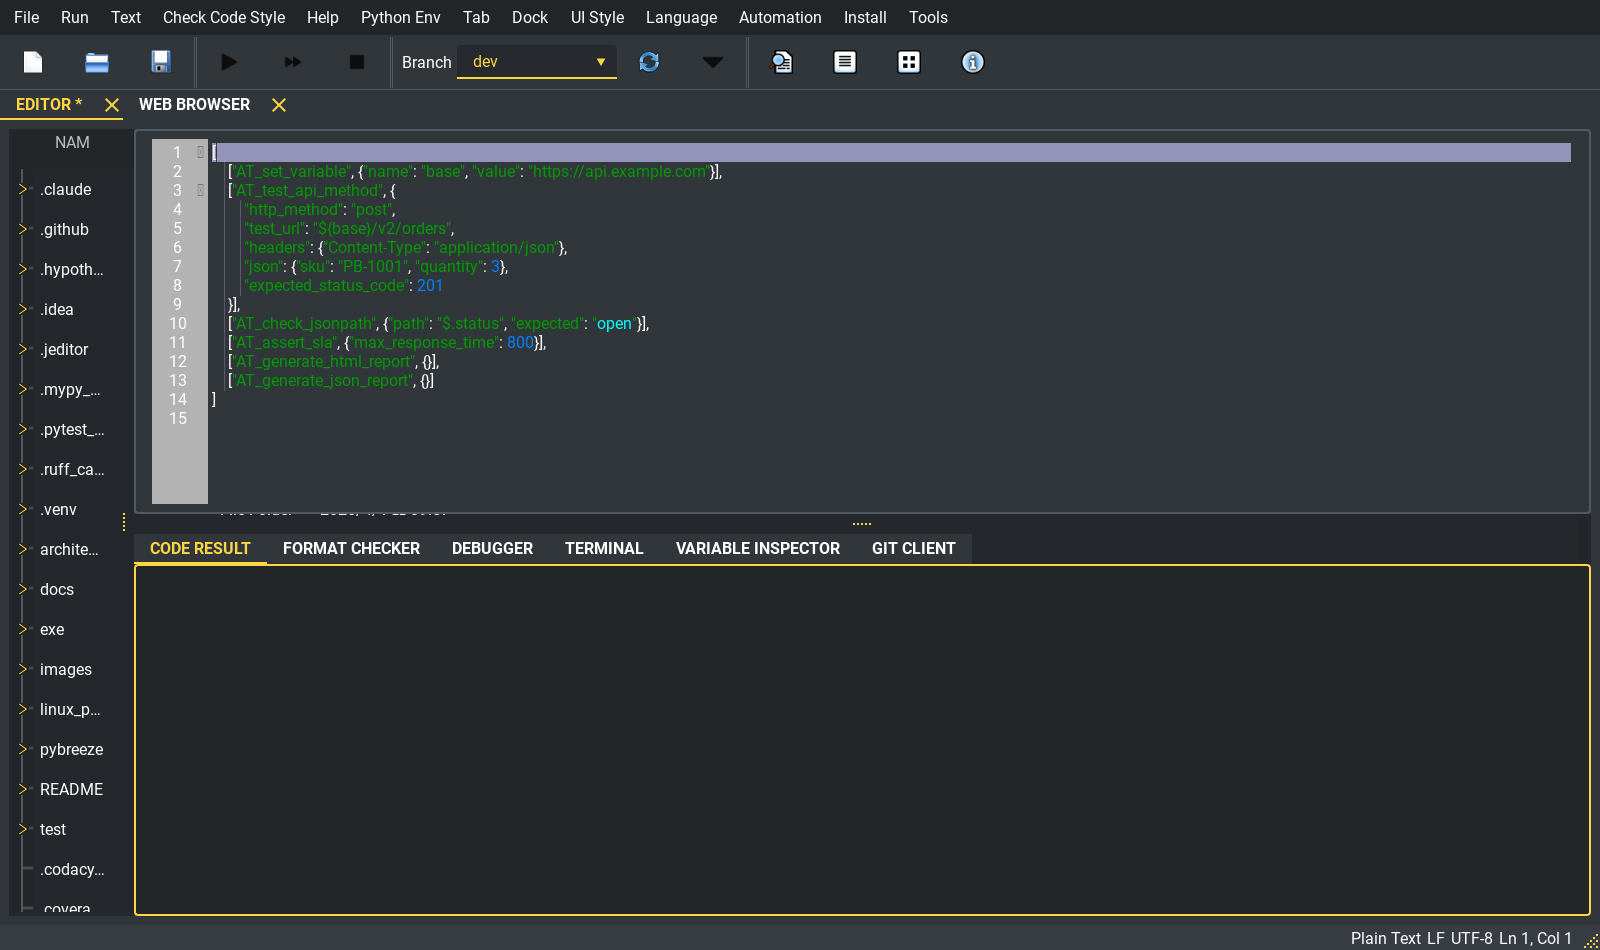
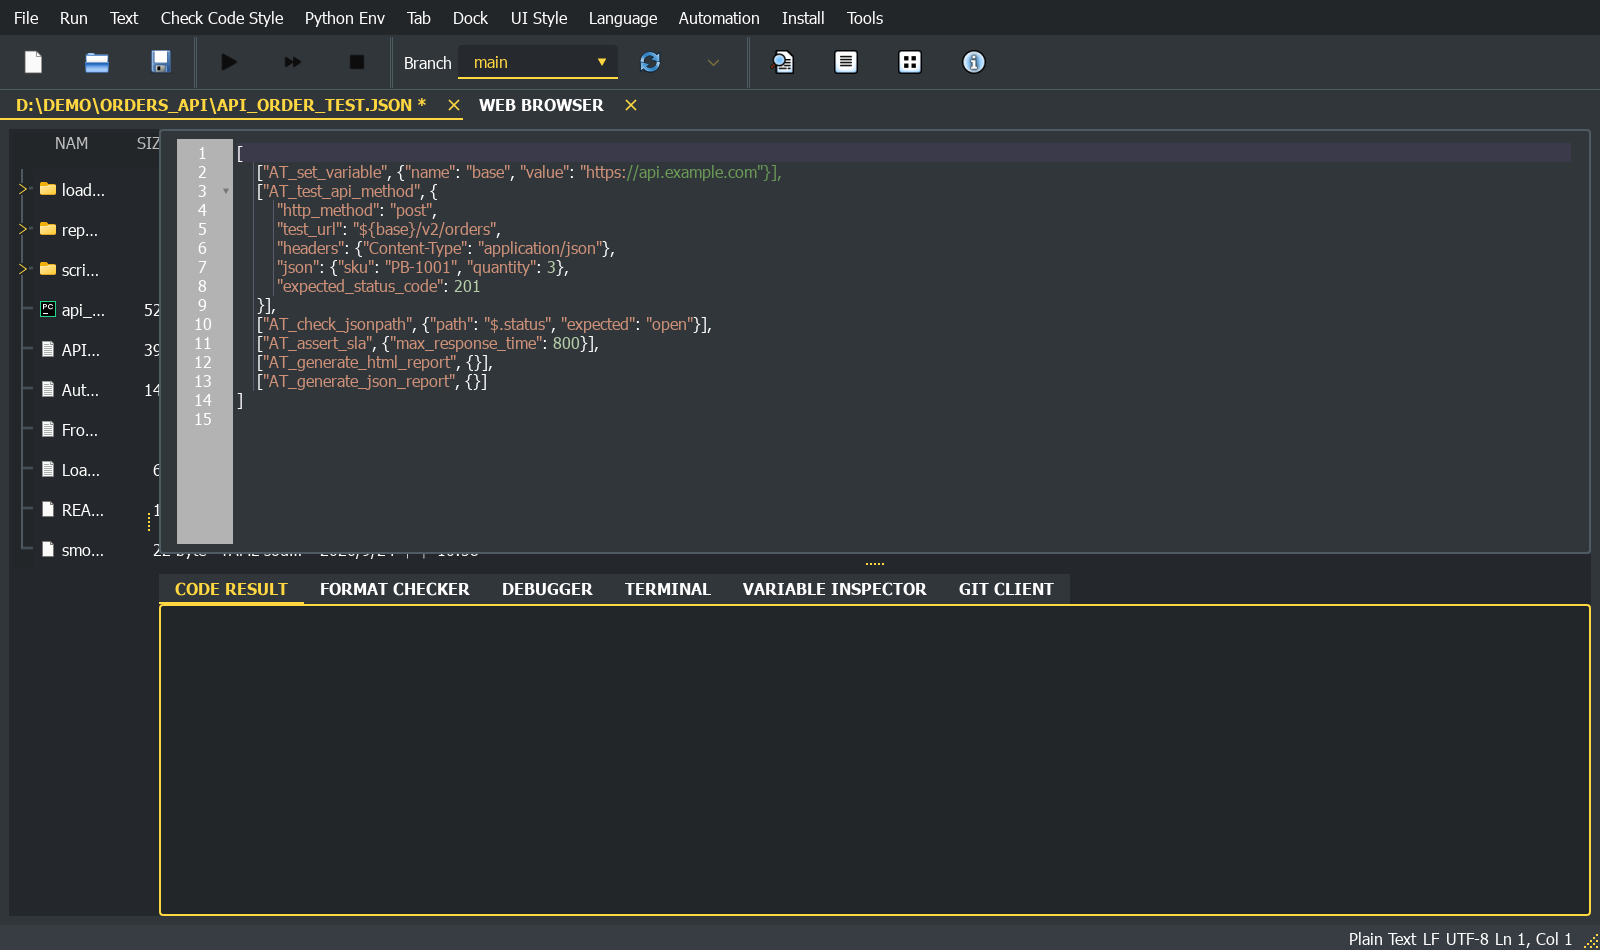
Redo the README's main window and correct its caption

diff --git a/progress.md b/progress.md
@@ -18,3 +18,4 @@ Cross-repo and workspace items live in `D:\Codes\progress.md` (relevant here: X-
 - **#106** [DECIDE] `test_pioneer` is unpinned (`requirements.txt`, `pyproject.toml`, `dev.toml`), and before 0.1.34 it read a YAML file in the locale's encoding: on a Traditional Chinese Windows (cp950) TestPioneer "Run YAML" of a file with a non-ASCII character, which the editor saves as UTF-8, exits 1 with `UnicodeDecodeError` (`extend/process_executor/test_pioneer/test_pioneer_process_manager.py`). This repo's `.venv` has 0.1.30; 0.1.34 reads it as UTF-8. `Install ▸ Automation ▸ Install TestPioneer` upgrades it by hand meanwhile. Should the dependencies require `test_pioneer>=0.1.34`?
 - **#108** [BLOCKED] The Traditional Chinese IDE still shows Mainland terms in JEditor's own entries, which PyBreeze does not define: the Run menu (`run_menu_label` 運行, `run_menu_run_program_label` 運行程式, `run_menu_run_on_shell_label` 在終端運行, ...), the font menus (`file_menu_font_label` / `text_menu_label_font` 字體, `font_size` 字體大小) and `editor_code_result` 程式運行結果 (`je_editor/utils/multi_language/traditional_chinese.py:54`, `:96-97` and on, in `D:\Codes\JEDITOR` at e1a8b12). PyBreeze's own entries use 執行, 字型, 外掛 and 終端機 (`test_traditional_chinese_uses_taiwan_terms`), so its menus now sit beside JEditor's 運行. Needs the words changed in JEditor; overriding them here would copy JEditor's English entries into both of PyBreeze's dictionaries.
 - **#109** [DECIDE] `je-editor>=1.0.27` (`requirements.txt`, `pyproject.toml`, `dev.toml`) lets an environment keep a gitpython below 3.1.59, which has CVE-2026-78676 (a config write turns a quoted value into a live `core.hooksPath`: code runs on the next hook) and CVE-2026-78679; the IDE's git features use it (JEditor's `je_editor/git_client/`). je-editor 1.0.28 differs from 1.0.27 only in requiring `gitpython>=3.1.59`, and 3.1.59 still has CVE-2026-87818 (the diff API's `--no-index` reads any path), fixed in 3.1.60. Should the dependencies say `je-editor>=1.0.28`, declare `gitpython>=3.1.60`, or both? JEditor's own floor is its to raise (`D:\Codes\JEDITOR\pyproject.toml:18`).
+- **#110** [BLOCKED] A file opened from the project tree shows as unsaved (" *" on its tab, `_is_modified` true) before anything is typed: JEditor's `EditorWidget.open_an_file` fills the editor with `setPlainText`, which fires `_on_text_changed`, and never clears the mark afterwards (`je_editor/pyside_ui/main_ui/editor/editor_widget.py:295` and `:347-358` in `D:\Codes\JEDITOR` at 1bf81e3; plain `EditorMain` does the same). Needs `open_an_file` to clear the mark (`mark_saved()`) once the file is loaded.

diff --git a/docs/updates/2026-09-b.md b/docs/updates/2026-09-b.md
@@ -991,3 +991,11 @@ Continues [2026-09.md](2026-09.md), which passed the batch size limit. Index and
 - **Docs**: `architecture.md` §6 (the new internal JEditor name), `CLAUDE.md` tree, `architecture_explore.md` (startup sequence, test count).
 - **Files**: `pybreeze/pybreeze_ui/code_result_logs.py`, `pybreeze/pybreeze_ui/editor_main/main_ui.py`, `test/test_utils/test_code_result_logs.py`, `test/test_utils/test_jeditor_contract.py`, `architecture.md`, `CLAUDE.md`, `architecture_explore.md`
 - **Open items**: upstream, recorded here and not changed from this repository: the four packages setting the root logger's level on import; JEditor's skip list naming "AutomationIDE", and its handler sitting on a logger and on its parent, so a warning from `git.util` shows twice.
+
+## U-20260924-310 · 2026-09-24 · Redo the README's main window and correct its caption · #docs #readme
+
+- **What**: `images/main_window.png` (2026-08-03) no longer matched the IDE, and its caption was wrong. It showed JEditor's Help menu, which `PyBreezeMainWindow` removes; the automation keywords of an APITestka action file in colour, which the IDE does not do today (#103: `.json` gets JEditor's generic highlighter); and the project tree of this repository, including a folder named after a development tool. The caption, in all three READMEs, said the keywords are highlighted.
+- **Done**: redone at 1600 × 950 under dark_amber from the real `PyBreezeMainWindow`, started in a throwaway git project (`D:\demo\orders_api`, branch `main`) with `USERPROFILE` at a throwaway home and the same action file opened through `open_an_file`; both folders removed afterwards. The caption now says an APITestka action file is open. The tree also shows the four `.log` files the automation packages write into the working directory as they are imported, as a user sees them.
+- **Found on the way**: the gitpython lines in Code Result (fixed, U-20260924-309), and a tab opened from the tree showing "*" before anything was typed, recorded as #110 (JEditor).
+- **Files**: `images/main_window.png`, `README.md`, `README/README_zh-TW.md`, `README/README_zh-CN.md`, `progress.md`
+- **Open items**: #103, #110.

diff --git a/docs/updates/README.md b/docs/updates/README.md
@@ -58,6 +58,7 @@ In the same commit: delete the item from `progress.md`, add a `#done` entry here
 
 | ID | Date | Title | Tags | Batch |
 |---|---|---|---|---|
+| U-20260924-310 | 2026-09-24 | Redo the README's main window and correct its caption | #docs #readme | [2026-09-b](2026-09-b.md) |
 | U-20260924-309 | 2026-09-24 | Keep library debug records out of Code Result | #fix #editor #logging | [2026-09-b](2026-09-b.md) |
 | U-20260924-308 | 2026-09-24 | The cURL import button names the chosen target | #fix #tools #readme | [2026-09-b](2026-09-b.md) |
 | U-20260924-307 | 2026-09-24 | Redo the README screenshots of the AI tabs | #docs #readme | [2026-09-b](2026-09-b.md) |
@@ -391,4 +392,4 @@ In the same commit: delete the item from `progress.md`, add a `#done` entry here
 | File | Period | Entries |
 |---|---|---:|
 | [2026-09.md](2026-09.md) | 2026-09 | 218 |
-| [2026-09-b.md](2026-09-b.md) | 2026-09 | 107 |
+| [2026-09-b.md](2026-09-b.md) | 2026-09 | 108 |

diff --git a/README/README_zh-CN.md b/README/README_zh-CN.md
@@ -11,7 +11,7 @@
 
 ![PyBreeze 主窗口](../images/main_window.png)
 
-*主窗口：APITestka 动作文件中的自动化关键字高亮显示，左侧是项目树，下方是运行／格式检查／调试／终端面板。*
+*主窗口：编辑器打开着一个 APITestka 动作文件，左侧是项目树，下方是运行／格式检查／调试／终端面板。*
 
 ---
 

diff --git a/README/README_zh-TW.md b/README/README_zh-TW.md
@@ -11,7 +11,7 @@
 
 ![PyBreeze 主視窗](../images/main_window.png)
 
-*主視窗：APITestka 動作檔中的自動化關鍵字已高亮，左側是專案樹，下方是執行／格式檢查／除錯／終端機面板。*
+*主視窗：編輯器開著一個 APITestka 動作檔，左側是專案樹，下方是執行／格式檢查／除錯／終端機面板。*
 
 ---
 

diff --git a/README.md b/README.md
@@ -11,7 +11,7 @@
 
 ![PyBreeze main window](images/main_window.png)
 
-*The main window: automation keywords highlighted in an APITestka action file, project tree on the left, run/format/debug/terminal panes below.*
+*The main window: an APITestka action file open in the editor, project tree on the left, run/format/debug/terminal panes below.*
 
 ---
 
